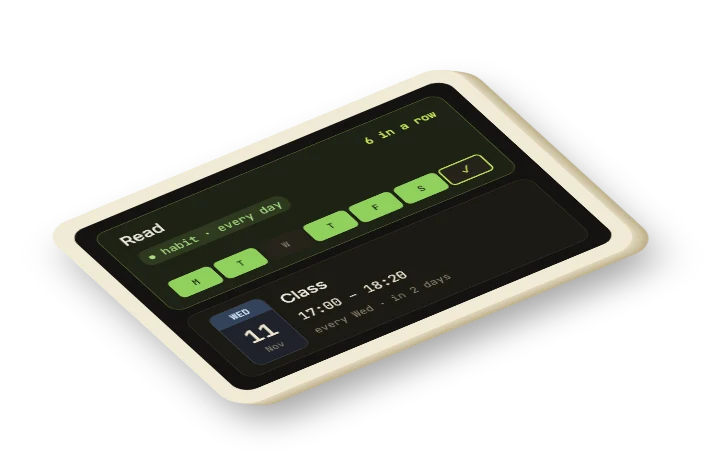
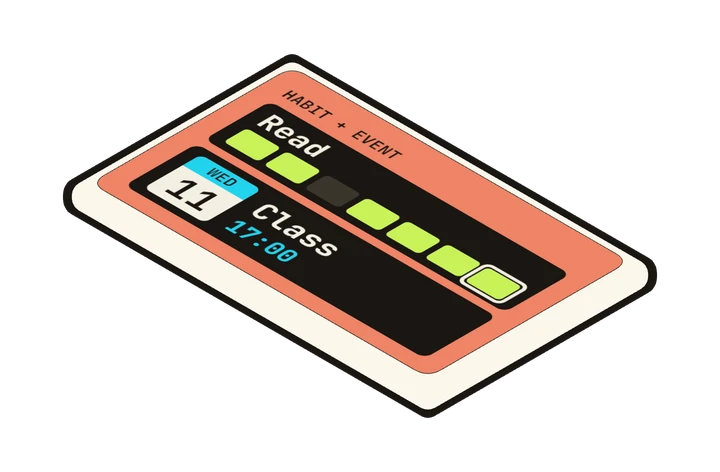
fix(whatsnew): redraw the guide and board plates sharp in the 3D plate style

diff --git a/docs/08-history/HISTORY.md b/docs/08-history/HISTORY.md
@@ -2603,3 +2603,10 @@ The first-day voice clips no longer match the corrected words: the clip check is
 **Branch:** `experiment/new-user-review`
 **Files changed:** `Tour/tours.ts` (two voice lines reworded), `Tour/voice/*` (2 clips re-recorded, 2 removed), `docs/releases/pre-release-todo.md`.
 **Summary:** All 155 recordings were transcribed back with ElevenLabs speech-to-text and compared with their scripts (mean word match 0.98; no audio tag read aloud). Two slips — "Tick it" heard as "Ticket", "Tick the box" as "Take the box" — were reworded ("Then tick it off… right there in the list", "Then tick the little box on its row") and re-recorded; both now transcribe exactly. The real Electron build was driven over CDP with its own profile and board (the owner's running app untouched): windows open, the board tour opens, the orb answers through Claude Code. Claude CLI states checked on Windows: not installed, not signed in, ready, and a question with quotes and `&`. Issues #222–#229 closed with this evidence.
+
+## [2026-11-09] — What's new plates redrawn sharp (experimental)
+
+**Type:** Bug Fix
+**Branch:** `experiment/new-user-review`
+**Files changed:** `src/renderer/assets/launch/plate-guide.webp`, `src/renderer/assets/launch/plate-board.webp`.
+**Summary:** The two new 0.11 plates were made with a CSS tilt of a small HTML card, which smeared their tiny text. They are now rendered with the same 3D plate renderer as every older plate (flat texture on a real slab, ink outline): big type, few words — "Plan it." with progress, voice and Next for the guide; a Read habit row and a Wed 11 · Class · 17:00 event for the board. Checked at the dialog's real size; the approval board's three screenshots were retaken.
